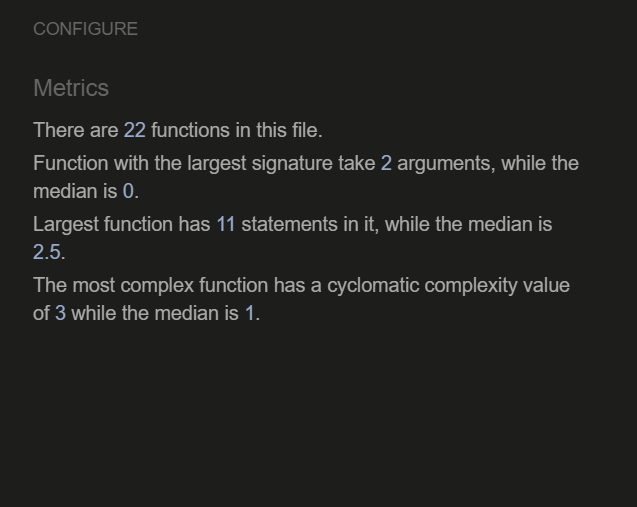
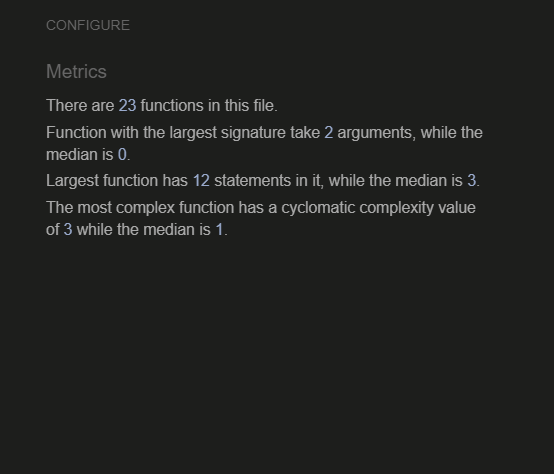
Add updated lighhouse screenshots following updates to code

Changed region(s): [[0.0307, 0.1181, 0.9206, 0.6498], [0.0614, 0.0295, 0.2148, 0.0886]]

diff --git a/assets/js/script.js b/assets/js/script.js
@@ -15,7 +15,7 @@ const questionElement = document.getElementById('question');
 const usernameAlertContainer=document.getElementById('username-alert-container');
 const usernameContainer =document.getElementById('username-container');
 const rulesContainer =document.getElementById('rules-modal-container');
-const welcomeMessage =document.getElementById('welcome-message')
+const welcomeMessage =document.getElementById('welcome-message');
 //Scores variables
 const scoreBoardContainer = document.getElementById('scoreboard-container');
 const score = document.getElementById('score');
@@ -62,7 +62,7 @@ nextButton.addEventListener('click' ,() => {
 function rules (){
     welcomeMessage.style.display = "none";
     usernameContainer.style.display = "none";
-    rulesContainer.classList.remove('hide')
+    rulesContainer.classList.remove('hide');
 }
 
 
@@ -221,7 +221,7 @@ function updateIncorrectScore () {
  /**countdown timer*/
  function countDowntimer () {
        // timerContainer.classList.remove('hide')
-        let currentTime=2;
+        let currentTime=90;
         quizTimer =setInterval(function () {
             currentTime--;
 
